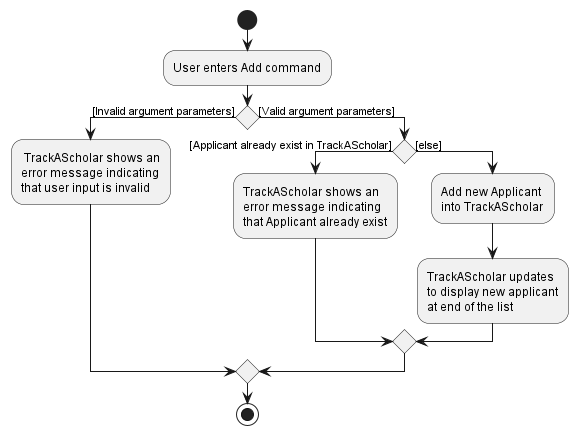
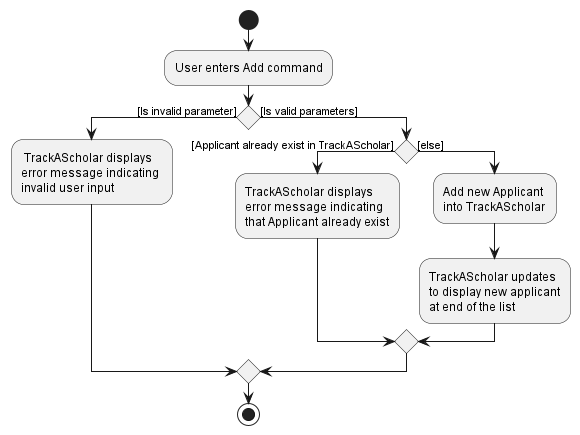
Add developer guide documentation for remove command implementation and update developer guide documentation for add command implementation

diff --git a/docs/DeveloperGuide.md b/docs/DeveloperGuide.md
@@ -195,7 +195,7 @@ Given below is an example usage scenario and how the add operation is handled by
    duplicate of any applicant already stored in TrackAScholar. When the check has concluded and no duplicate was found, `Model#addApplicant()`
    is called to add the new `Applicant` into TrackAScholar.
 
-6. `AddCommand#execute()` finishes with returning a `CommandResult` containing details of the new applicant to the user.
+6. `AddCommand#execute()` finishes with returning a `CommandResult` containing details about the applicant's successful addition to TrackAScholar.
 
 The following sequence diagram shows how the add operation works:
 
@@ -205,6 +205,7 @@ The following activity diagram summarizes what happens when a user executes an a
 
 ![Add command activity diagram](images/AddCommandActivityDiagram.png)
 
+--------------------------------------------------------------------------------------------------------------------
 
 ### Filter application status feature
 
@@ -214,30 +215,67 @@ The filter operation is facilitated by `FilterCommand`. It extends `Command` and
 
 Given below is an example usage scenario and how the filter operation is handled by TrackAScholar:
 
-1. The user enters `filter pending`, for example, to filter out applicants with pending scholarship status.
+1. The user enters `filter pending`, for example, to filter out applicants with pending scholarship application status.
    This invokes `LogicManager#execute()`, which calls `TrackAScholarParser#parseCommand()` to separate the command word `filter` and
    the argument `pending`.
 
 2. `TrackAScholarParser` identifies the `filter` command and `FilterCommandParser` will be instantiated which calls `FilterCommandParser#parse()`
    which checks that the argument is a valid application status by calling `ApplicationStatus#isValidApplicationStatus()`.
 
-3. `FilterCommandParser#parse()` creates a new `ApplicationStatusPredicate` with the argument before finally initializing and returning an `FilterCommand`
+3. After passing the check, `FilterCommandParser#parse()` creates a new `ApplicationStatusPredicate` with the argument before finally initializing and returning a `FilterCommand`
    with the new `ApplicationStatusPredicate` as an argument.
 
-4. `LogicManager#execute()` now calls `FilterCommand#execute()`, which invokes `Model#updateFilteredApplicantList()` to filter out the list of applicants with the matching application status. When the operation has concluded, `Model#getFilteredApplicantList()`
+4. `LogicManager#execute()` now calls `FilterCommand#execute()`, which invokes `Model#updateFilteredApplicantList()` to filter out the list of 
+   applicants with the matching application status. When the operation has concluded, `Model#getFilteredApplicantList()`
    is called to retrieve the filtered list, such that TrackAScholar can count the total number of applicants in that particular list.
 
-5. `AddCommand#execute()` finishes with returning a `CommandResult` containing list of all applicants with the matching scholarship status.
+5. `FilterCommand#execute()` finishes with returning a `CommandResult` containing details of how many applicants were found with a matching scholarship application status.
 
 The following sequence diagram shows how the filter operation works:
 
 ![Interactions Inside the Logic Component for the `filter` Command example](images/FilterSequenceDiagram.png)
 
-The following activity diagram summarizes what happens when a user executes an filter command:
+The following activity diagram summarizes what happens when a user executes a filter command:
 
-![Add command activity diagram](images/FilterCommandActivityDiagram.png)
+![Filter command activity diagram](images/FilterCommandActivityDiagram.png)
 
-<div markdown="span" class="alert alert-info">:information_source: **Note:** The alternative paths should all end at the merge note but due to limitations of PlantUML, arrows extending
+--------------------------------------------------------------------------------------------------------------------
+
+### Remove applicants by application status feature
+
+#### Implementation
+
+The remove operation is facilitated by `RemoveCommand`. It extends `Command` and implements the `Command#execute` operation.
+
+Given below is an example usage scenario and how the remove operation is handled by TrackAScholar:
+
+1. The user enters `remove accepted`, for example, to remove all applicants with accepted scholarship application status.
+   This invokes `LogicManager#execute()`, which calls `TrackAScholarParser#parseCommand()` to separate the command word `remove` and
+   the argument `accepted`.
+
+2. `TrackAScholarParser` identifies the `remove` command and `RemoveCommandParser` will be instantiated which calls `RemoveCommandParser#parse()`.
+
+3. `RemoveCommandParser#parse()` now parses the argument and creates a new `ApplicationStatus` before finally initializing and returning a `RemoveCommand`
+   with the new `ApplicationStatus` as an argument.
+
+4. `LogicManager#execute()` now calls `RemoveCommand#execute()`, which invokes `RemoveCommand#promptUserConfirmation()`. TrackAScholar now displays
+   a window asking for the user's confirmation to remove the applicants. After the use confirms, `RemoveCommand#confirmRemove()` is called which
+   in turn calls `Model#removeApplicant()` to remove all applicants from the list matching the targeted `ApplicationStatus`.  
+   
+5. `FilterCommand#execute()` finishes with returning a `CommandResult` containing information of the successful removal.
+
+The following sequence diagram shows how the remove operation works:
+
+![Interactions Inside the Logic Component for the `remove` Command example](images/RemoveSequenceDiagram.png)
+
+<div markdown="span" class="alert alert-info">:information_source: **Note:** The GUI interactions when `RemoveCommand#execute()` calls `RemoveCommand#promptUserConfirmation()`
+is abstracted out as this sequence diagram aims only to demonstrate the interactions inside Logic Component for the `remove` command.
+
+</div>
+
+The following activity diagram summarizes what happens when a user executes a remove command:
+
+![Remove command activity diagram](images/RemoveCommandActivityDiagram.png)
 
 --------------------------------------------------------------------------------------------------------------------
 
@@ -267,18 +305,18 @@ Streamline the scholarship application process by organizing the scholarship app
 
 Priorities: High (must have) - `* * *`, Medium (nice to have) - `* *`, Low (unlikely to have) - `*`
 
-| Priority | As a …                                         | I want to …                                       | So that I can…                                                                |
-|---------|-------------------------------------------------|----------------------------------------------------|--------------------------------------------------------------------------------|
-| `* * *` | new user                                        | see usage instructions easily                      | discover functionalities provided by the application                           |
-| `* * *` | new user                                        | operate with clear and concise commands            | learn easily and grow proficiency with time                                    |
-| `* * *` | user                                            | retrieve previously stored application data        | access stored database                                                         |
-| `* * *` | user                                            | save fresh data easily                             | avoid losing all my data                                                       |
-| `* * *` | administrator                                   | add a scholar to my database                       | keep track of the application status of the scholar                            |
-| `* * *` | administrator                                   | delete a scholar from my database                  | remove data of accepted or rejected applications that is no longer needed      |
-| `* * *` | administrator managing <br/>multiple applicants | list all applicants in my database                 | view all scholarship applicants on the list of applications                    |
-| `* *`   | administrator                                   | edit the details of a scholar in my database       | have easy access to their most updated details                                 |
+| Priority | As a …                                         | I want to …                                       | So that I can…                                                                    |
+|---------|-------------------------------------------------|----------------------------------------------------|------------------------------------------------------------------------------------|
+| `* * *` | new user                                        | see usage instructions easily                      | discover functionalities provided by the application                               |
+| `* * *` | new user                                        | operate with clear and concise commands            | learn easily and grow proficiency with time                                        |
+| `* * *` | user                                            | retrieve previously stored application data        | access stored database                                                             |
+| `* * *` | user                                            | save fresh data easily                             | avoid losing all my data                                                           |
+| `* * *` | administrator                                   | add a scholar to my database                       | keep track of the application status of the scholar                                |
+| `* * *` | administrator                                   | delete a scholar from my database                  | remove data of applications that is no longer needed                               |
+| `* * *` | administrator managing <br/>multiple applicants | list all applicants in my database                 | view all scholarship applicants on the list of applications                        |
+| `* *`   | administrator                                   | edit the details of a scholar in my database       | have easy access to their most updated details                                     |
 | `* *`   | administrator managing <br/>multiple applicants | find applicants using keywords                     | retrieve details of their application without having to go through the entire list |
-| `*`     | advanced user                                   | run the application on different operating systems | access the same database/storage on different operating systems                |
+| `*`     | advanced user                                   | run the application on different operating systems | access the same database/storage on different operating systems                    |
 
 
 
